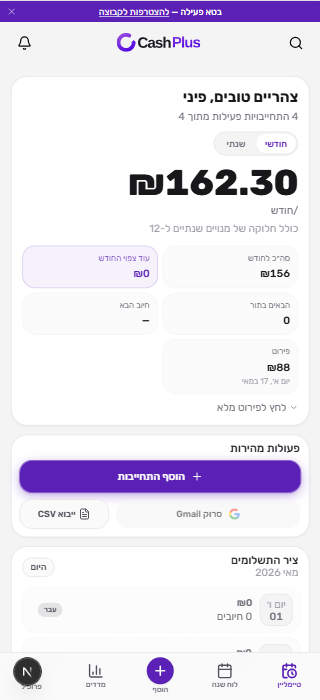
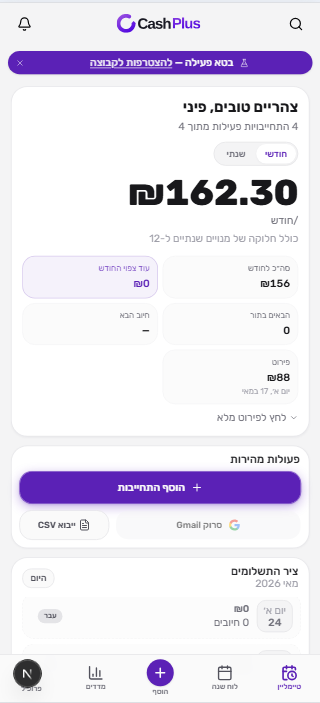
fix in design

diff --git a/app/globals.css b/app/globals.css
@@ -1563,16 +1563,7 @@ html[dir="rtl"] .project__pitch {
   transform-style: preserve-3d;
 }
 .phone::after {
-  content: "";
-  position: absolute;
-  top: 14px;
-  left: 50%;
-  transform: translateX(-50%);
-  width: 110px;
-  height: 28px;
-  background: #0a0a09;
-  border-radius: 18px;
-  z-index: 2;
+  content: none;
 }
 .phone__screen {
   position: absolute;
@@ -1582,7 +1573,9 @@ html[dir="rtl"] .project__pitch {
   overflow: hidden;
 }
 .phone__screenshot {
-  object-fit: cover;
+  width: 100% !important;
+  height: 100% !important;
+  object-fit: contain;
   object-position: top center;
 }
 .phone__inner {

diff --git a/components/CashPlusPhone.tsx b/components/CashPlusPhone.tsx
@@ -13,9 +13,11 @@ export default function CashPlusPhone() {
         <Image
           src='/cashplus-screenshot.png'
           alt='Cash Plus app screenshot'
-          fill
+          width={320}
+          height={700}
           className='phone__screenshot'
-          sizes='320px'
+          quality={100}
+          unoptimized
         />
       </div>
     </div>